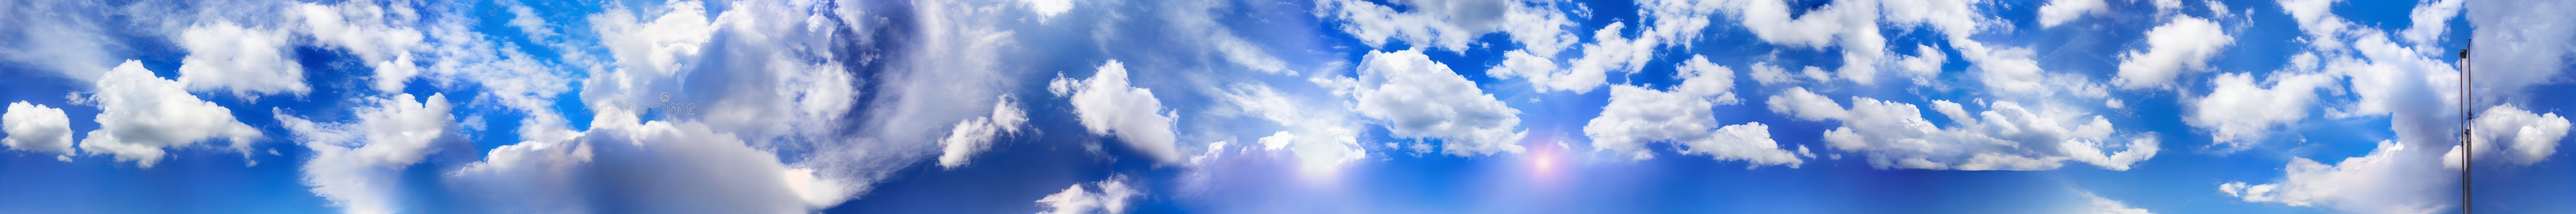
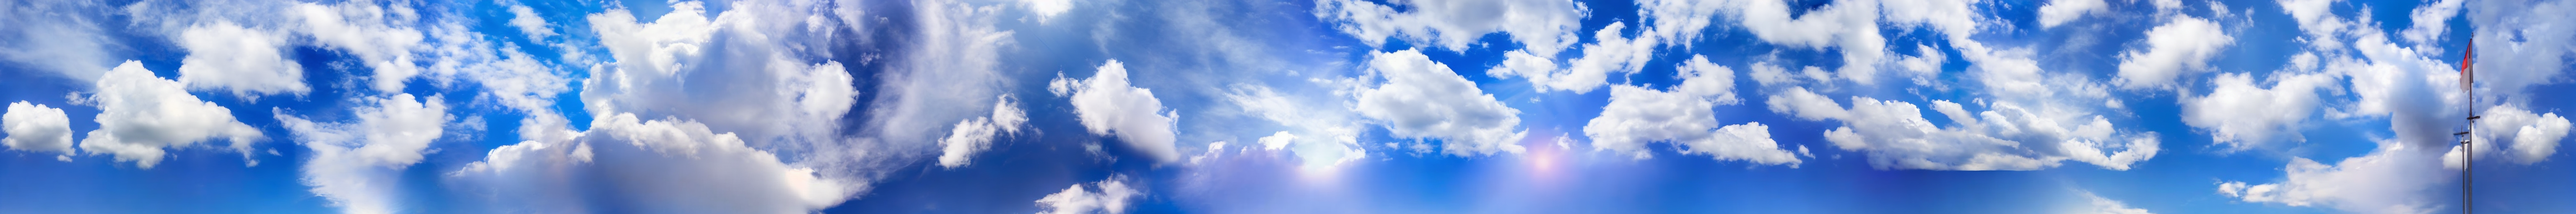
Added scene generation prompt log

diff --git a/run_automated.py b/run_automated.py
@@ -46,6 +46,7 @@ from syncdiffusion.syncdiffusion_model import SyncDiffusion
 from kornia.morphology import dilation
 import warnings
 import os
+import json
 warnings.filterwarnings("ignore")
 
 xyz_scale = 1000
@@ -270,8 +271,7 @@ def run_automated(config, camera_indices=None, prompts=None):
     gaussians = GaussianModel(sh_degree=0, previous_gaussian=gaussians)
     scene = Scene(traindata, gaussians, opt)
     dt_string = datetime.now().strftime("%d-%m_%H-%M-%S")
-    i = 0
-    save_dir = Path(config['runs_dir']) / f"{dt_string}_gaussian_scene{i:02d}"
+    save_dir = Path(config['runs_dir']) / f"{dt_string}_gaussian_scene{0:02d}"
     train_gaussian(gaussians, scene, opt, save_dir)
 
     tdgs_cam = convert_pt3d_cam_to_3dgs_cam(kf_gen.get_camera_at_origin(), xyz_scale=xyz_scale)
@@ -295,6 +295,19 @@ def run_automated(config, camera_indices=None, prompts=None):
     else:
         print("Using rotation_path-based generation")
     print(f"{'='*60}\n")
+    
+    # Initialize logging for scene generation
+    generation_log = {
+        "example_name": example,
+        "style_prompt": style_prompt,
+        "initial_scene": {
+            "scene_name": scene_name,
+            "entities": entities,
+            "background": background_prompt
+        },
+        "scenes": []
+    }
+    log_file_path = Path(config['runs_dir']) / "generation_log.json"
     
     gaussians_tmp = copy.deepcopy(gaussians)
     
@@ -350,7 +363,33 @@ def run_automated(config, camera_indices=None, prompts=None):
         )
         scene_name = scene_dict['scene_name'] if isinstance(scene_dict['scene_name'], str) else scene_dict['scene_name'][0]
         
-        print(f"Scene prompt: {inpainting_prompt}")
+        # Extract background text for logging
+        background_text = scene_dict['background']
+        if isinstance(background_text, list):
+            background_text = background_text[0] if background_text else ""
+        
+        # Log this scene's information
+        scene_log_entry = {
+            "scene_index": scene_idx + 1,
+            "camera_index": cam_idx,
+            "scene_name": scene_name,
+            "entities": scene_dict['entities'] if isinstance(scene_dict['entities'], list) else [scene_dict['entities']],
+            "background": background_text,
+            "inpainting_prompt": inpainting_prompt,
+            "style_prompt": style_prompt,
+            "negative_prompt": adaptive_negative_prompt
+        }
+        generation_log["scenes"].append(scene_log_entry)
+        
+        # Print detailed scene information
+        print(f"\n{'='*60}")
+        print(f"SCENE {scene_idx + 1}/{len(camera_indices)} - Camera {cam_idx}")
+        print(f"{'='*60}")
+        print(f"Scene Name: {scene_name}")
+        print(f"Entities: {', '.join(scene_dict['entities'] if isinstance(scene_dict['entities'], list) else [scene_dict['entities']])}")
+        print(f"Background: {background_text}")
+        print(f"Inpainting Prompt: {inpainting_prompt}")
+        print(f"{'='*60}\n")
         
         # Generate scene (same as run.py)
         kf_gen.set_kf_param(
@@ -467,7 +506,7 @@ def run_automated(config, camera_indices=None, prompts=None):
             gaussians = GaussianModel(sh_degree=0, previous_gaussian=gaussians)
             scene = Scene(traindata_layer, gaussians, opt)
             dt_string = datetime.now().strftime("%d-%m_%H-%M-%S")
-            save_dir = Path(config['runs_dir']) / f"{dt_string}_gaussian_scene_layer{i+1:02d}"
+            save_dir = Path(config['runs_dir']) / f"{dt_string}_gaussian_scene_layer{scene_idx+1:02d}"
             train_gaussian(gaussians, scene, opt, save_dir)
         else:
             traindata = kf_gen.convert_to_3dgs_traindata_latest(xyz_scale=xyz_scale, use_no_loss_mask=False)
@@ -491,13 +530,19 @@ def run_automated(config, camera_indices=None, prompts=None):
         gaussians = GaussianModel(sh_degree=0, previous_gaussian=gaussians)
         scene = Scene(traindata, gaussians, opt)
         dt_string = datetime.now().strftime("%d-%m_%H-%M-%S")
-        save_dir = Path(config['runs_dir']) / f"{dt_string}_gaussian_scene{i+1:02d}"
+        save_dir = Path(config['runs_dir']) / f"{dt_string}_gaussian_scene{scene_idx+1:02d}"
         train_gaussian(gaussians, scene, opt, save_dir)
         
         gaussians.set_inscreen_points_to_visible(tdgs_cam)
         kf_gen.increment_kf_idx()
         gaussians_tmp = copy.deepcopy(gaussians)
         empty_cache()
+        
+        # Save log incrementally after each scene (in case of crash)
+        generation_log["total_scenes"] = len(camera_indices)
+        generation_log["completed_scenes"] = scene_idx + 1
+        with open(log_file_path, 'w') as f:
+            json.dump(generation_log, f, indent=2)
         
         print(f"✓ Completed scene {scene_idx + 1}/{len(camera_indices)}")
     
@@ -526,6 +571,13 @@ def run_automated(config, camera_indices=None, prompts=None):
     gaussians.yield_splat_data(str(splat_path))
     print(f"✓ Splat file saved: {splat_path}")
     
+    # Finalize and save generation log
+    generation_log["total_scenes"] = len(camera_indices)
+    generation_log["completed_scenes"] = len(camera_indices)
+    generation_log["completion_time"] = datetime.now().strftime("%Y-%m-%d %H:%M:%S")
+    with open(log_file_path, 'w') as f:
+        json.dump(generation_log, f, indent=2)
+    
     print("\n" + "="*60)
     print("AUTOMATED GENERATION COMPLETE")
     print("="*60)
@@ -534,6 +586,18 @@ def run_automated(config, camera_indices=None, prompts=None):
     print(f"  - Final PLY: {final_ply_path.name}")
     print(f"  - Splat file: {splat_path.name}")
     print(f"  - Scene images: images/frames/")
+    print(f"  - Generation log: {log_file_path.name}")
+    print("="*60)
+    
+    # Print summary of scene names
+    print("\n" + "="*60)
+    print("SCENE GENERATION SUMMARY")
+    print("="*60)
+    print(f"Style: {style_prompt}")
+    print(f"\nScene Progression:")
+    for i, scene in enumerate(generation_log["scenes"], 1):
+        print(f"  {i}. {scene['scene_name']} (Camera {scene['camera_index']})")
+        print(f"     Entities: {', '.join(scene['entities'])}")
     print("="*60)
 
 
